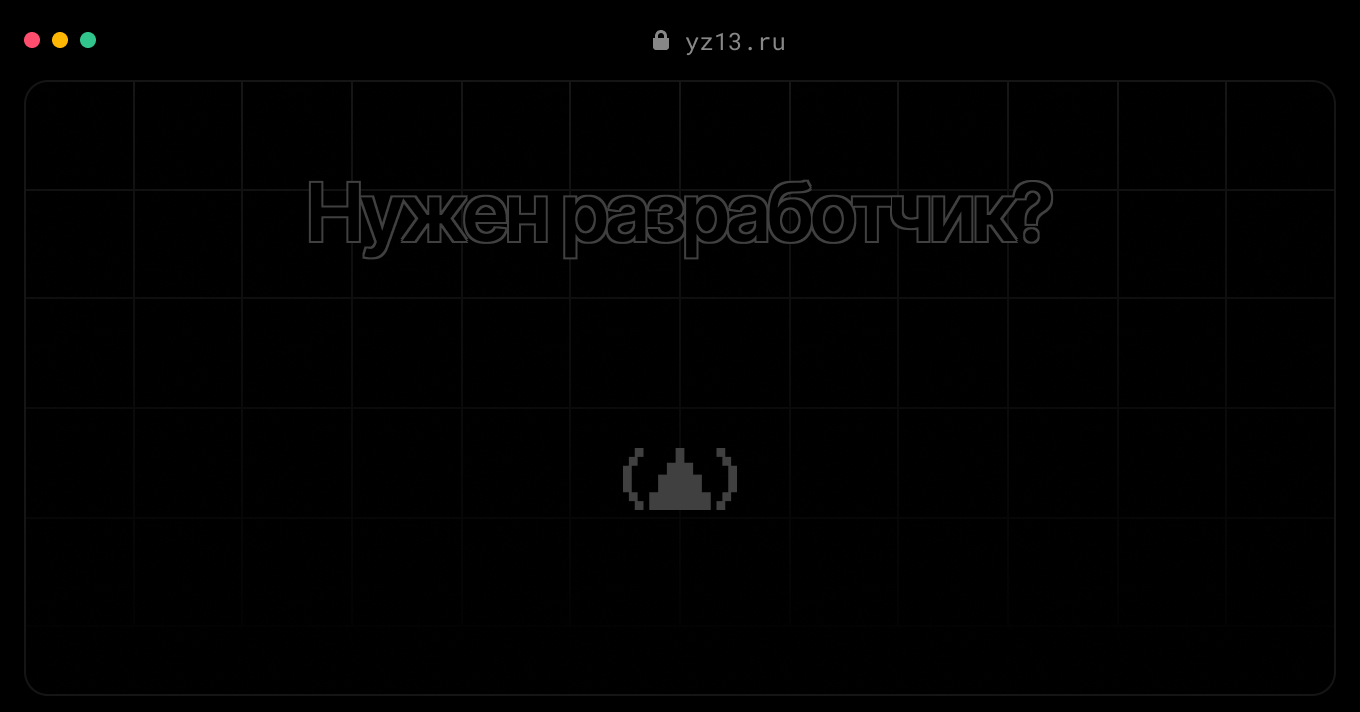
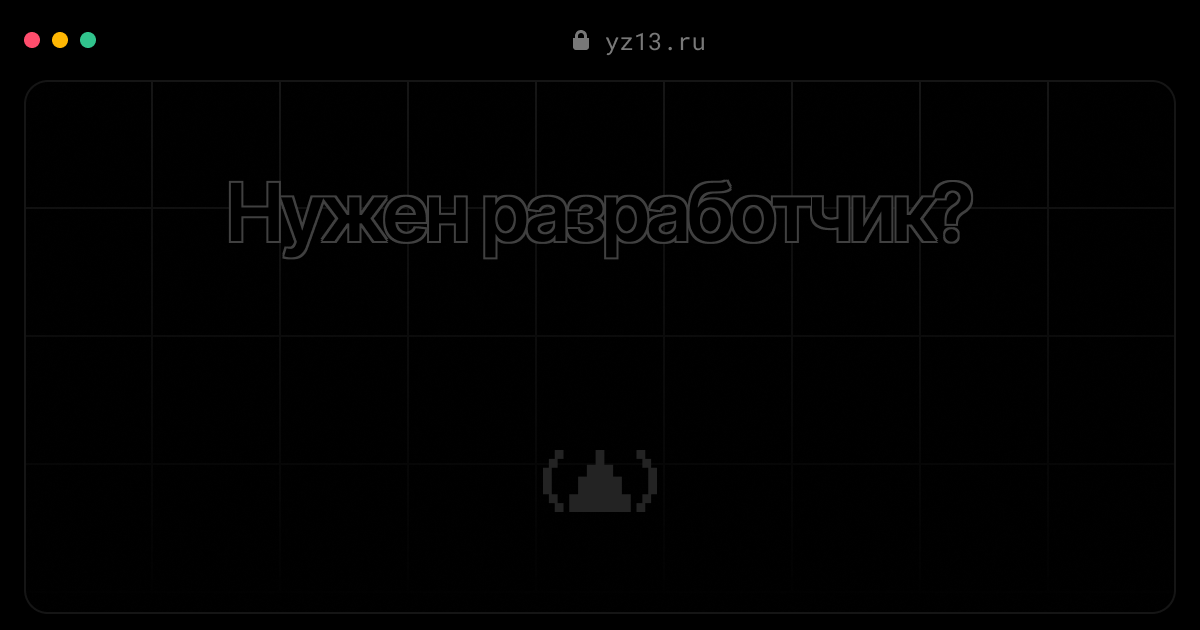
update metadata, add og images

diff --git a/apps/website/app/layout.tsx b/apps/website/app/layout.tsx
@@ -82,7 +82,8 @@ export const metadata: Metadata = {
     "Fullstack",
   ],
   twitter: {
-    card: "summary",
+    card: "summary_large_image",
+    site: "YZ13",
     creator: "@YZ13_DEV",
     description: "На пути к фуллстеку",
     title: "YZ13",
@@ -98,6 +99,7 @@ export const metadata: Metadata = {
     type: "website",
     description: "На пути к фуллстеку",
     title: "YZ13",
+    siteName: "YZ13",
     url: "https://yz13.ru",
     locale: "ru_RU",
     emails: ["yztheceo@yandex.ru"],
